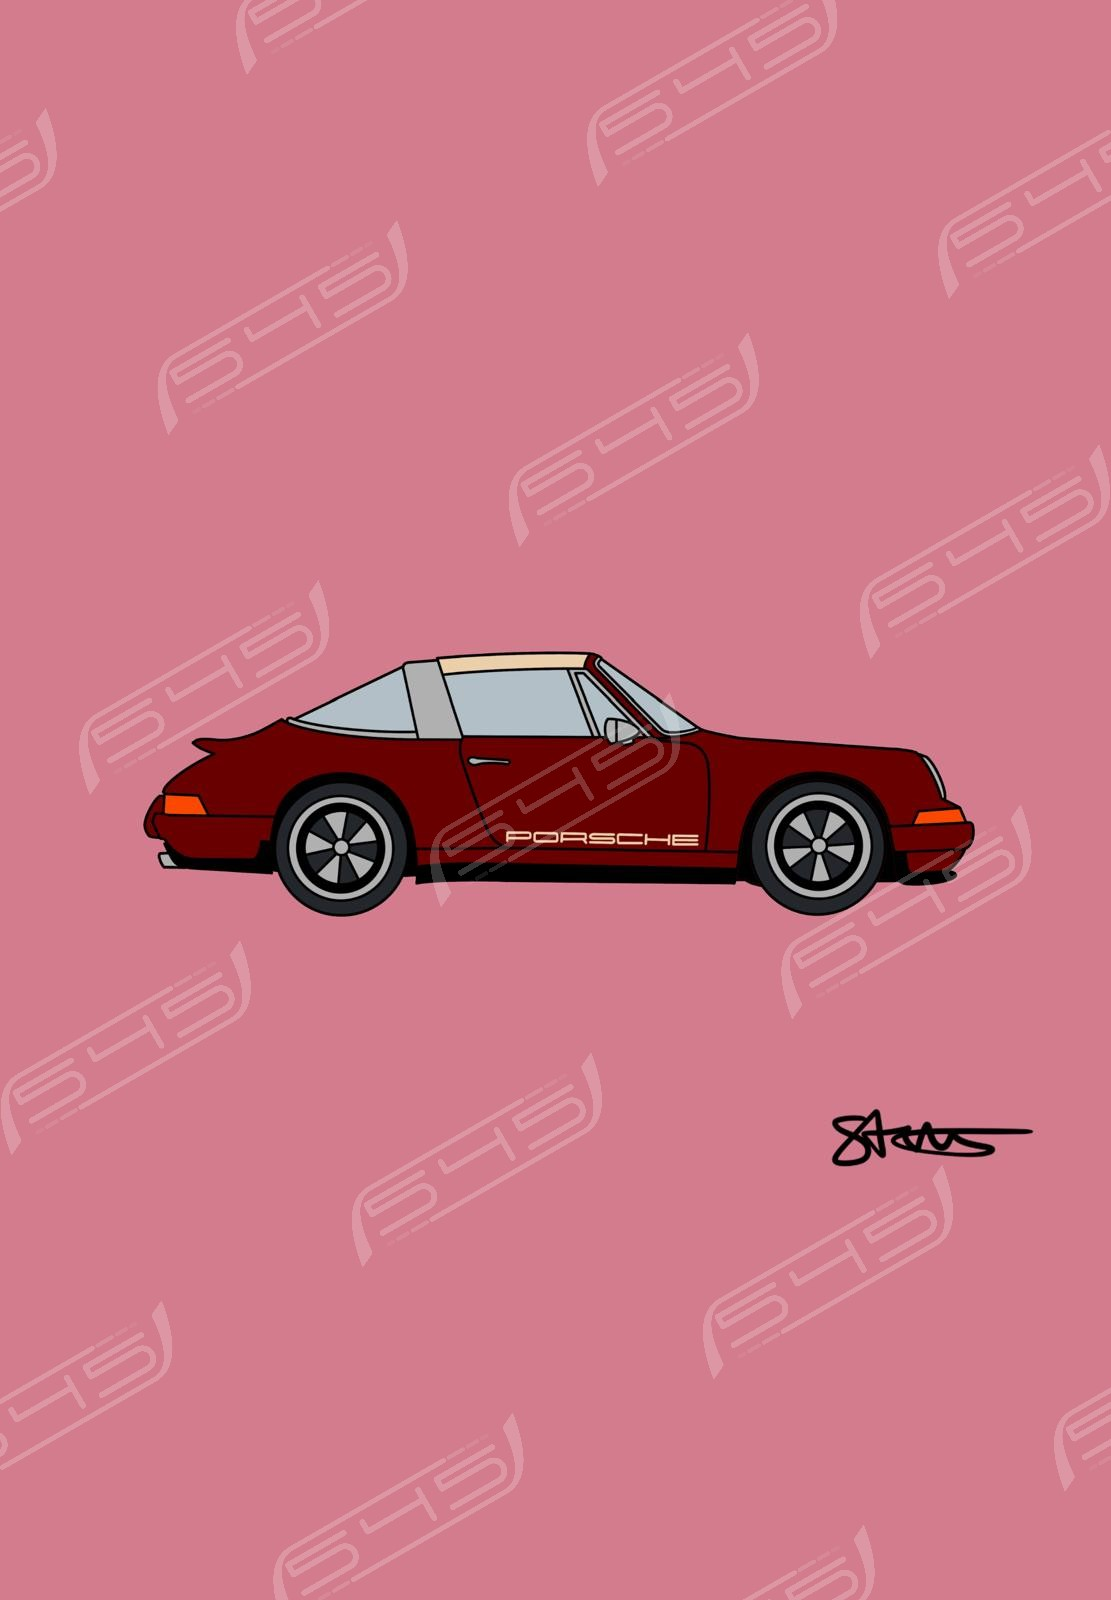
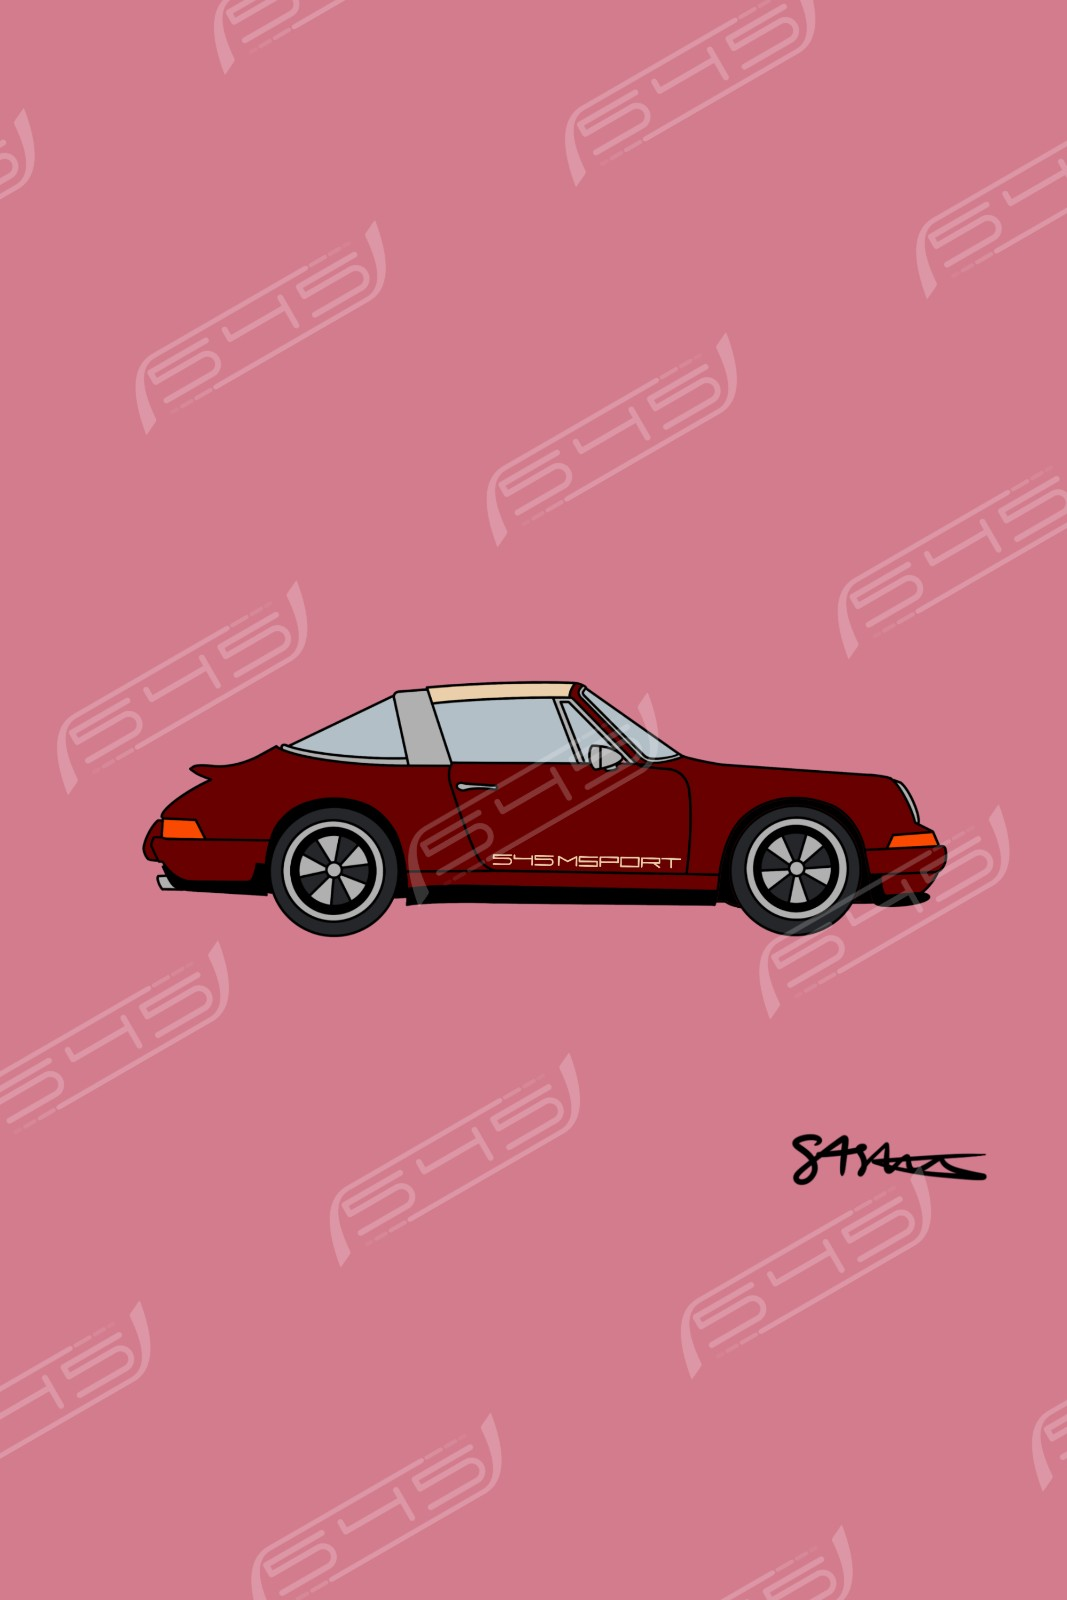
Art prints replaced with six new watermarked artworks
Burgundy Porsche, GT3 RS, SV5, 545 F1, Le Mans Pit Lane, Heart of Racing; resized for the web with the white 545 watermark.

diff --git a/prints.html b/prints.html
@@ -42,9 +42,12 @@
       <p>Original illustrations, drawn by hand and signed.</p>
     </div>
     <div class="shop shop-art">
-      <div class="item"><figure><div class="art"><img src="img/prints/burgundy-porsche.jpg?v=wm2" alt="Illustration of a burgundy classic Porsche 911 Targa on a pink background" width="1111" height="1600" loading="lazy"></div><figcaption><span class="name">Burgundy Porsche</span><a class="enquire" href="contact.html">Enquire to buy</a></figcaption></figure></div>
-      <div class="item"><figure><div class="art"><img src="img/prints/gt3-rs.jpg?v=wm2" alt="Illustration of a black Porsche GT3 race car from behind, rear lights glowing red" width="1111" height="1600" loading="lazy"></div><figcaption><span class="name">GT3 RS</span><a class="enquire" href="contact.html">Enquire to buy</a></figcaption></figure></div>
-      <div class="item"><figure><div class="art"><img src="img/prints/sv5.jpg?v=wm2" alt="Illustration of a Ferrari Formula 1 car head-on, in deep red shadow" width="1111" height="1600" loading="lazy"></div><figcaption><span class="name">SV5</span><a class="enquire" href="contact.html">Enquire to buy</a></figcaption></figure></div>
+      <div class="item"><figure><div class="art"><img src="img/prints/burgundy-porsche.jpg?v=art2" alt="Illustration of a burgundy classic Porsche 911 Targa with 545 MSPORT script, on a pink background" width="1067" height="1600" loading="lazy"></div><figcaption><span class="name">Burgundy Porsche</span><a class="enquire" href="contact.html">Enquire to buy</a></figcaption></figure></div>
+      <div class="item"><figure><div class="art"><img src="img/prints/gt3-rs.jpg?v=art2" alt="Illustration of a black Porsche GT3 race car from behind with a 545 badge, rear lights glowing red" width="1067" height="1600" loading="lazy"></div><figcaption><span class="name">GT3 RS</span><a class="enquire" href="contact.html">Enquire to buy</a></figcaption></figure></div>
+      <div class="item"><figure><div class="art"><img src="img/prints/sv5.jpg?v=art2" alt="Illustration of a Formula 1 car head-on with 545 on the nose, in deep red shadow" width="1067" height="1600" loading="lazy"></div><figcaption><span class="name">SV5</span><a class="enquire" href="contact.html">Enquire to buy</a></figcaption></figure></div>
+      <div class="item"><figure><div class="art"><img src="img/prints/f1-545.jpg?v=art2" alt="Illustration of a Formula 1 car in light blue and orange with 545 Motorsport on the rear wing, on navy" width="1600" height="1067" loading="lazy"></div><figcaption><span class="name">545 F1</span><a class="enquire" href="contact.html">Enquire to buy</a></figcaption></figure></div>
+      <div class="item"><figure><div class="art"><img src="img/prints/le-mans-pit-lane.jpg?v=art2" alt="Illustration of the Le Mans pit garages at night, with a yellow 545 Motorsport pit board" width="1600" height="1067" loading="lazy"></div><figcaption><span class="name">Le Mans Pit Lane</span><a class="enquire" href="contact.html">Enquire to buy</a></figcaption></figure></div>
+      <div class="item"><figure><div class="art"><img src="img/prints/heart-of-racing.jpg?v=art2" alt="Hand-drawn line sketch of the number 27 Heart of Racing GT car" width="1600" height="1066" loading="lazy"></div><figcaption><span class="name">Heart of Racing</span><a class="enquire" href="contact.html">Enquire to buy</a></figcaption></figure></div>
     </div>
 
     <div class="section-head print-group">
